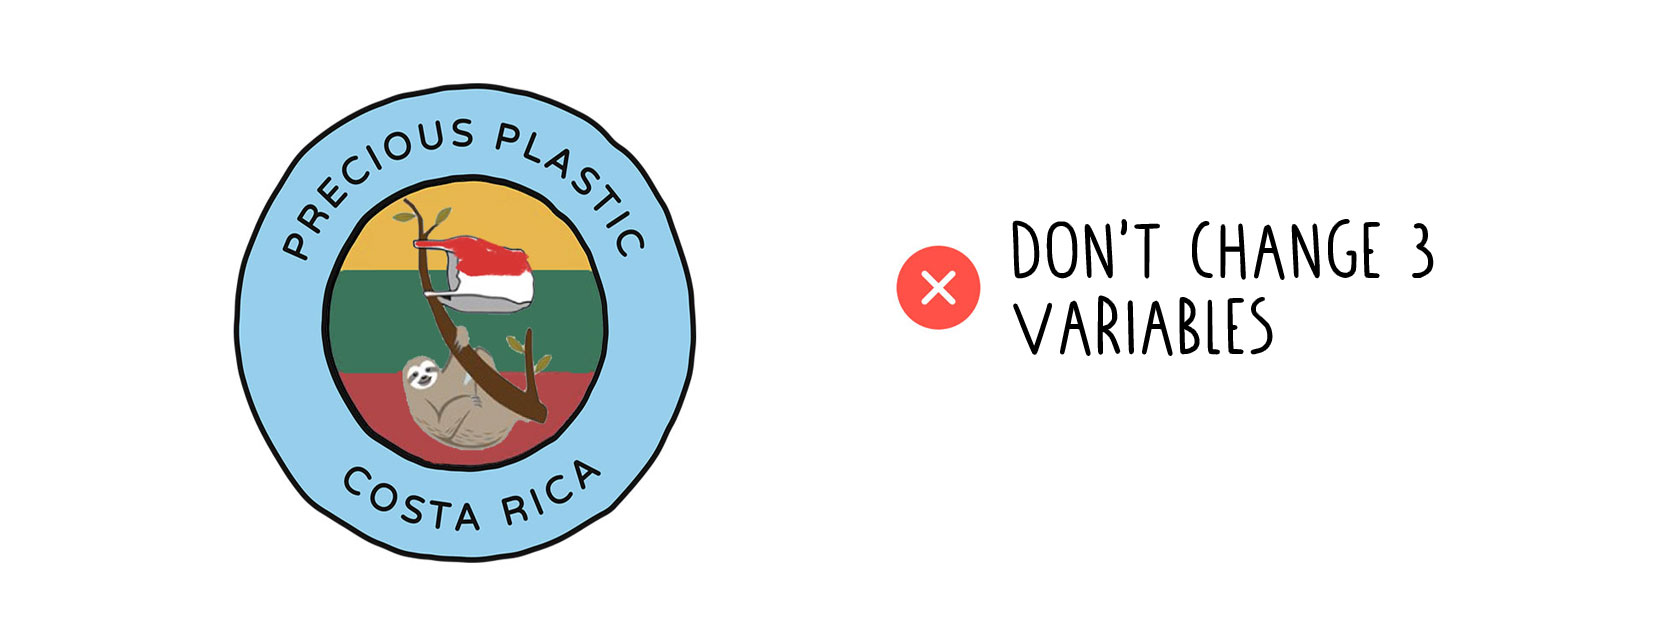
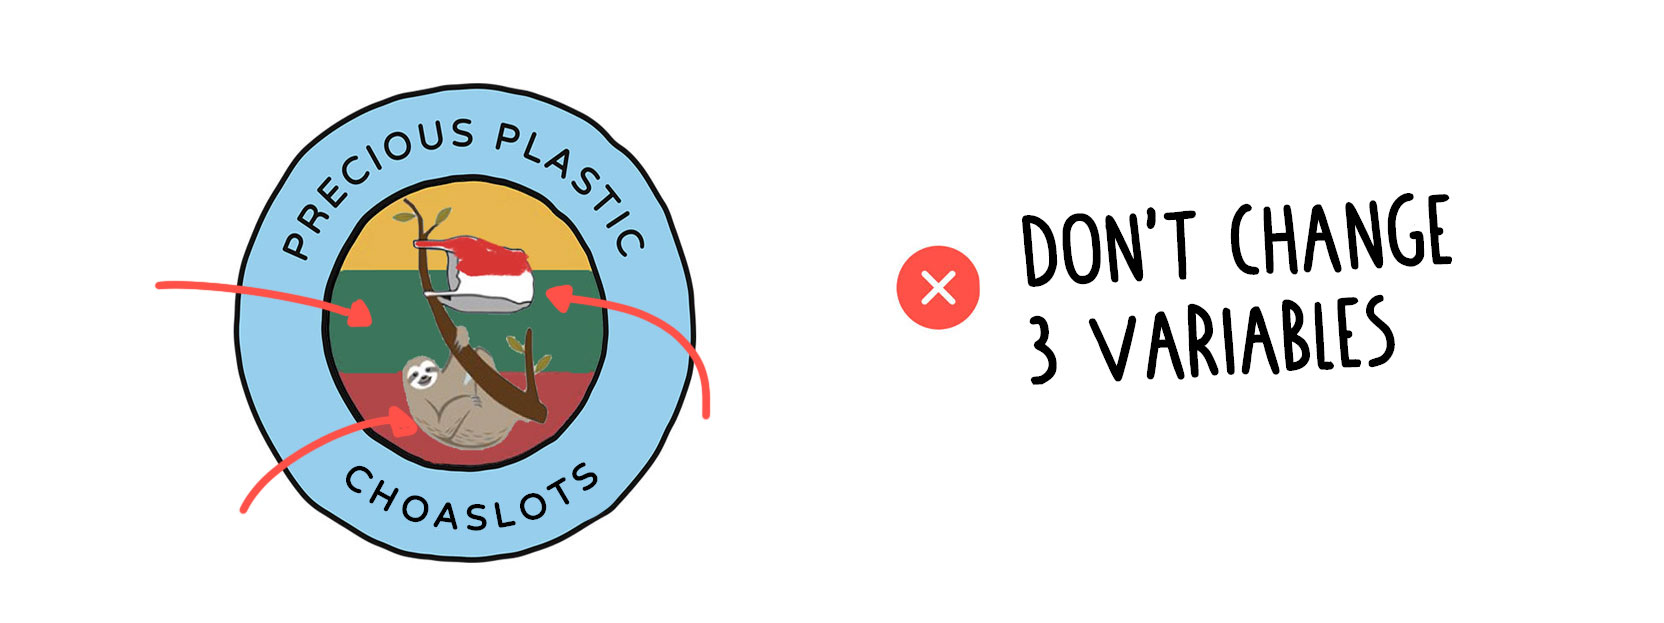
Updated the Universeeeee
+ 3D models of the old machines.

diff --git a/docs/universe/make-your-logo.md b/docs/universe/make-your-logo.md
@@ -1,7 +1,7 @@
 ---
 id: yourlogo
 title: Make your own logo
-sidebar_label: Your own logo
+sidebar_label: Make your logo
 ---
 
 <style>
@@ -13,28 +13,28 @@ sidebar_label: Your own logo
 
 # Make your own logo!
 
-Hi there, good to see you. In this page we will show you how to make your own Precious Plastic logo. We have a few tips and trick that help you make a good logo, and we provide some files in the [download kit](../download). The goal is to help you to have a strong logo to use for your space. One that uses the worldwide brand recognition of Precious Plastic, is customized to your environment and works within the [ universe ](../universe/universe).
+Hi there, good to see you. In this page we will show you how to make your own Precious Plastic logo. We have a few guidelines and tips and trick that help you make a good logo. We provide some files in the [download kit](../download) and have a cool online tools as well But more on that later. Overal the goal is to help you to have a strong logo to use for your Space. One that uses the worldwide brand recognition of Precious Plastic, is customized to your environment and works within the [ Universe ](../universe/universe).
 
 >We are open-source so you can basically do whatever you want, but if we all stick to the guideliness everything will run smooth and we collaborate on a global scale
 
 
-# Step #1 - Pick the right logo color
-The colors in the logo are used to see the fucntion in the Universe. Make sure you pick the right color that fits your space.
+# Guideline #1 - Pick the right logo color
+The colors in the logo are used to see its [function in the Universe ](../universe/universe). This is very helpful for our community see what role you full-fill. Make sure you pick the right color that fits your space.
 <center>
 | Workspace   |   Community point  | Collection Point | Machine Shop |
 |----------|-------------|------------|------------|
 | <img src="../assets/universe/logo-workspace.png" width="150"/> | <img src="../assets/universe/logo-community.png" width="150"/> | <img src="../assets/universe/logo-collection.png" width="150"/>   | <img src="../assets/universe/logo-machineshop.png" width="150"/> |
 </center>
 
-# Step #2 - Select a name
-Change the name of the bottom of the logo to your own. Use the file in the downloadkit to start of with. A few things to keep in mind when picking a name. Don't use your location (country, city neigberhood) unless you are a community point. We need multiple Precious Plastic spaces in easy area, if you claim the location name it prevents others from using it. Location names should be used by community points so they can be the main point of connection for new members. Any other name can be used. In general we recommend to use a short name, fits better and easy to remember.
+# Guideline #2 - Select the right name
+A few things to keep in mind when picking a name. Don't use your location (country, city neigberhood) unless you are a Community Point. We need multiple Precious Plastic Spaces in each local area, if you claim the location name it prevents others from using it. Location names should be used by Community Points only. They are the main point of contact for new members in your area. Any other name can be used though. In general we recommend to use a short name, fits better and easy to remember.
 
-<img src="../assets/universe/logo-name.png"/>
+<img src="../assets/universe/logo-name.jpg"/>
 
 
 
-# Step #3 - Customize the logo
-This is where you can get creative, customize the logo. The flag is powerfull to use as a recognition. More and more people get to know it and it creates a powerful ecosystem. So we reccomend to not change it to much. There are good and not so good ways to customize the logo. Overall the trick is to not change it to much to benifit from the brand awarness of Precious Plastic around the world
+# Guideline #3 - Customize delicate
+This is where you can get creative, customize your logo. The flag is powerful to use as a recognition around the world and only becomes stronger. More and more people get to know it and it creates a powerful ecosystem. So we recommend to not change it to much. There are a few good and not so good ways to customize the logo. Overall the trick is to not change it to much to benifit from the brand awarness of Precious Plastic around the world
 <img src="../assets/universe/logo-good-bad.jpg" />
 
 ## Only change one variable
@@ -46,3 +46,21 @@ We advise to not change the logo to much, but this is still a bit..abstract. So 
 ## Good & Not so good
 Below a few examples that stick to the guideliness and some that are not. Good luck with you own logo. If you need help or feedback join our [Discord](https://discordapp.com/invite/zmf98dw).  
 <img src="../assets/universe/logo-examples.jpg" />
+
+
+
+# Let's make you logo!
+We provide 2 options to make your own logo. For both you need to install the Precious Plastic fonts. Make sure to keep the above guidelines in mind and if if you need help you can ask around in our [#Universe](https://discordapp.com/invite/QUw8A3w) channel in Discord.
+
+1. **The oldschool way:** Download al the files and templates from the [download-kit](../download). You can use your own software to modify. Photoshop, Illustarter, GIMP, Sketch, paint. Whatever gets you going.
+
+2. **The new way:** Use Figma, a free online tool. We like to use it at Precious Plastic to create graphic assets.
+It's free and Multi-platform (Windows, Mac and even Linux) which makes it a great tool to collaborate.<br>
+2.1 - You need to create your on account. Go to www.figma.com and click on Sign up (top-right corner).You can either download the [desktop app](https://www.figma.com/downloads/) or use it directly in your browser. If you choose the second option, then you need to install the [Font Installer](https://www.figma.com/downloads/) to use the custom Precious Plastic font within the software.<br>
+2.2 - If you want to learn more about Figma and how to use the editor you can watch [this video.](https://youtu.be/DSrbwCrEIII)<br>
+2.3 - Once it's done, we're ready to create your logo. Follow this link:<br>
+https://www.figma.com/file/YpkQ9zzWMLS1R47pJcKBxJ/Logo-Generator.<br>
+All the instructions are included in the file.
+Enjoy & be creative!
+
+<img src="../assets/universe/figma-logo.gif" />

diff --git a/docs/universe/branding.md b/docs/universe/branding.md
@@ -12,25 +12,28 @@ sidebar_label: Style guides
 </style>
 
 # The style and graphics behind Precious Plastic
-# Using the logo correctly
+Precious Plastic if a global Open-Source community. This means people can take and make whatever they want. So we have individuals, groups and us in the headquarters making graphic material like posters, website and stickers. But we like to collaborate on a global scale. Instead of making a lot of random things, we like to keep them coherent. So if someone makes something, someone else on the other side of the world can use it as well. And in order to achieve this we have some style- guides.
+<img src="../assets/universe/our-logos.png" />
+# Our different logo's
+There are basically 3 different types of logo's we use. Each of them have their own function.
+1. **Official Logo:** This logo is only used by the headquarters, you can see this on the website and graphic materials we make. We use a different logo because we don't operate as a Precious Plastic Space, we do development and run infrastructure for the community. The logo helps people to see what is official. *Do not use this logo*
+1. **Community Logo:** This is used for things made by the community for the community. For instance posters, stickers, t-shirts a community driven forum. Things that other members around the world as can use as well.
+1. **Custom Logo:** These logo's are used by [Spaces](../spaces) around the world. Community Points, Workspaces, Machine Shops & Collection Points. The logo can be customized to your needs with your own name, more on that in the [next chapter](../universe/yourlogo). These logo's are used to promote your own space, business cards, sign outside your workspace, social media account etc.
 
-# Make posters for Precious Plastic
-- location is for community Points
-- name not to Long
 
+
+<img src="../assets/universe/ourfonts.png" />
 # Using our font
-
-<img style="margin-left:0px;" src="../assets/universe/font-1.jpg" />
-- customize logo based on roles
-- change 1 variable, color background, illustartion
-- save as eps
-
-# Using background background strokes
+We mainly use 3 different fonts. For titles, subtitles and written text. For titles we use our own made Precious Plastic font, can be found in the download-kit. It's nice to use big an bulky. We use Varela Round for subtitles, like there in the academy. We prefer to use it a bit more bold and often in uppercase. It's used in posters and actually also in the logo! And finally we have a text for text, most of our text is digital. For this we use System-Fonts.  These fonts are already on your computer installed. This makes it easier to load and saves bandwith. But it does look a bit different on each device.
 
 
+
+
+<img src="../assets/universe/title-font.png" />
 
 
 # Precious Plastic colors
+Colors are key for us, we love them. They are friendly and represent shredder plastic for us. But we also love them to stay organised and make things clear. We don't use them randomly, they are nested in our DNA and UX Design. We started using them in the Academy a few years ago and kept building upon them. Here are our main colors;
 
 
 ## Academy colors
@@ -42,11 +45,15 @@ sidebar_label: Style guides
 | <img src="../assets/universe/C0ADD4.jpg" width="100%" height="50px" /> | __Collect__ <br> #C0ADD4 |  <img src="../assets/universe/F18DAF.jpg" width="100%" height="50px"/> | __Universe__ <br> #F18DAF |
 | <img src="../assets/universe/FCDE8A.jpg" width="100%" height="50px" /> | __Create__ <br> #FCDE8A |  <img src="../assets/universe/CDCFD5.jpg" width="100%" height="50px"/> | __Support & Download__ <br> #CDCFD5 |
 
-## General colors
+## Spaces colors
 |  color | Location & Hex code           | color | Location & Hex code                   |
 |----------|---------------|--|--------|
-| <img src="../assets/universe/CDCFD5.jpg" width="100%" height="50px" /> | __Primary color__ <br> #B7D6E3    | <img src="../assets/universe/FCDE8A.jpg" width="100%" height="50px"/> | __secondary color__ <br> #FCDE8A	|
-| <img src="../assets/universe/CDCFD5.jpg" width="100%" height="50px" /> | __Workspace__ <br> #B7D6E3    | <img src="../assets/universe/FCDE8A.jpg" width="100%" height="50px"/> | __Machine shop__ <br> #FCDE8A	|
-| <img src="../assets/universe/CDCFD5.jpg" width="100%" height="50px" /> | __Community point__ <br> #B7D6E3    | <img src="../assets/universe/FCDE8A.jpg" width="100%" height="50px"/> | __Collection Point__ <br> #FCDE8A	|
-| <img src="../assets/universe/CDCFD5.jpg" width="100%" height="50px" /> | __Member_ <br> #B7D6E3    | <img src="../assets/universe/FCDE8A.jpg" width="100%" height="50px"/> | __Collection Point__ <br> #FCDE8A	|
-| <img src="../assets/universe/CDCFD5.jpg" width="100%" height="50px" /> | __Logo Ring__ <br> #B7D6E3    | <img src="../assets/universe/FCDE8A.jpg" width="100%" height="50px"/> | __Logo background__ <br> #FCDE8A	|
+| <img src="../assets/universe/8ec685.jpg" width="100%" height="50px" /> | __Community Points__ <br> #B7D6E3    | <img src="../assets/universe/95D2EF.jpg" width="100%" height="50px"/> | __Workspaces__ <br> #95D2EF	|
+| <img src="../assets/universe/C0ADD4.jpg" width="100%" height="50px" /> | __Collection Point__ <br> #C0ADD4    | <img src="../assets/universe/F19093.jpg" width="100%" height="50px"/> | __Machine shop__ <br> #F19093	|
+
+
+
+# Make graphics for Precious Plastic
+Graphics are a powerful tool to communicate a message. We use it to share dry functional information like melting temperatures and different types of plastic. We use it to trigger people and look different at plastic, for instance with our campaign posters from the Collection Points. And we use it digitally, on social media and our website. And there are probably many different purposes and things to make, we don't have an example for everything nor have all the guidelines in depth. The best thing to do is have a look at the graphic material we already provide, take them as an example or template an build upon that. And if you are unsure wheter it looks good, just share it in the Discord, many people love to share their opinion on it :)
+
+<img src="../assets/universe/posters.png" />

diff --git a/docs/universe/universe.md b/docs/universe/universe.md
@@ -50,5 +50,5 @@ There are a few things to take in account when setting up a Space.
 
 - **What is your budget** We like it if people can sustain themselves in the long run, setting your Space up as a business helps a lot to achieve this. But each Space does this a bit different, some require high investments, some not. Take this in account before you want to start
 
-# Become Part of the Ecosystem
-It's fun to be part of a global community of like minded people, you can always find a place to sleep around the world :). But it's also just really really useful. On the one hand you can use our Discord to share ideas, suggestion or find answers to your questions. And we have our online community-platform where you can find much more information, hacks, and improvements generated by members around the world. This information you can just take, but its also good to give back towards and share the things we learn. So we all work locally, but share knowledge globally.
+# Become part of a global ecosystem
+It's fun to be part of a global community of like minded people, you can always find a place to sleep around the world :). But it's also just really really useful. On the one hand you can use our [Discord](https://discordapp.com/invite/rnx7m4t) to share ideas, suggestion or find answers to your questions. And we have our online [community-platform](https://community.preciousplastic.com) where you can find much more information, hacks, and improvements generated by members around the world. This information you can just take, but its also good to give back towards and share the things we learn. So we all work locally, but share knowledge globally.

diff --git a/docs/build/shredder.md b/docs/build/shredder.md
@@ -60,7 +60,7 @@ The shredder is the backbone of Precious Plastic, it allows you to shred plastic
 > Pro Tip: Clean the shredder blades and mesh every time you change plastic to avoid contamination of different plastic types.
 
 # 🌐 3D Model
-<iframe width="500" height="600" src="https://b2b.partcommunity.com/community/partcloud/embedded.html?route=embedded-viewer&name=Shredder+Basic+V2.0&model_id=96649&portal=b2b&noAutoload=true&autoRotate=false&hideMenu=true&topColor=%23FFFFFF&bottomColor=%23ffffff&cameraParams=false&varsettransfer=" frameborder="0" id="EmbeddedView-Iframe-96649" allowfullscreen></iframe>
+<iframe width="500" height="500" src="https://b2b.partcommunity.com/community/partcloud/embedded.html?route=embedded-viewer&name=Shredder+Basic+V2.0&model_id=96649&portal=b2b&noAutoload=true&autoRotate=false&hideMenu=true&topColor=%23FFFFFF&bottomColor=%23ffffff&cameraParams=false&varsettransfer=" frameborder="0" id="EmbeddedView-Iframe-96649" allowfullscreen></iframe>
 
 
 # 🛠 Required machinery & skills

diff --git a/docs/build/injection.md b/docs/build/injection.md
@@ -60,7 +60,7 @@ The injection machine has a quick production output with high precision, while i
 | ♻ Input Flake Size                   | Medium, Small  |
 
 # 🌐 3D Model
-<iframe width="500" height="600" src="https://b2b.partcommunity.com/community/partcloud/embedded.html?route=embedded-viewer&name=Injection+Basic+V2.0&model_id=96645&portal=b2b&noAutoload=true&autoRotate=false&hideMenu=true&topColor=%23dde7ed&bottomColor=%23ffffff&cameraParams=false&varsettransfer=" frameborder="0" id="EmbeddedView-Iframe-96645" allowfullscreen></iframe>
+<iframe width="500" height="500" src="https://b2b.partcommunity.com/community/partcloud/embedded.html?route=embedded-viewer&name=Injection+Basic+V2.0&model_id=96645&portal=b2b&noAutoload=true&autoRotate=false&hideMenu=true&topColor=%23dde7ed&bottomColor=%23ffffff&cameraParams=false&varsettransfer=" frameborder="0" id="EmbeddedView-Iframe-96645" allowfullscreen></iframe>
 
 
 # 🛠 Required machinery & skills

diff --git a/docs/build/extrusion.md b/docs/build/extrusion.md
@@ -71,7 +71,7 @@ With this machine you can create filament (challenging but doable), granulate or
 
 
 # 🌐 3D Model
-<iframe width="500" height="600" src="https://b2b.partcommunity.com/community/partcloud/embedded.html?route=embedded-viewer&name=Extrusion+Basic+V2.0&model_id=96651&portal=b2b&noAutoload=true&autoRotate=false&hideMenu=true&topColor=%23FFFFFF&bottomColor=%23ffffff&cameraParams=false&varsettransfer=" frameborder="0" id="EmbeddedView-Iframe-96651" allowfullscreen></iframe>
+<iframe width="500" height="500" src="https://b2b.partcommunity.com/community/partcloud/embedded.html?route=embedded-viewer&name=Extrusion+Basic+V2.0&model_id=96651&portal=b2b&noAutoload=true&autoRotate=false&hideMenu=true&topColor=%23FFFFFF&bottomColor=%23ffffff&cameraParams=false&varsettransfer=" frameborder="0" id="EmbeddedView-Iframe-96651" allowfullscreen></iframe>
 
 
 # 🛠 Required machinery & skills

diff --git a/docs/build/compression.md b/docs/build/compression.md
@@ -56,7 +56,7 @@ The compression machine is basically an electric kitchen oven to heat the plasti
 
 
 # 🌐 3D Model
-<iframe width="500" height="600" src="https://b2b.partcommunity.com/community/partcloud/embedded.html?route=embedded-viewer&name=Compression+Basic+V2.0&model_id=96647&portal=b2b&noAutoload=false&autoRotate=false&hideMenu=true&topColor=%23dde7ed&bottomColor=%23ffffff&cameraParams=false&varsettransfer=" frameborder="0" id="EmbeddedView-Iframe-96647" allowfullscreen></iframe>
+<iframe width="500" height="500" src="https://b2b.partcommunity.com/community/partcloud/embedded.html?route=embedded-viewer&name=Compression+Basic+V2.0&model_id=96647&portal=b2b&noAutoload=false&autoRotate=false&hideMenu=true&topColor=%23dde7ed&bottomColor=%23ffffff&cameraParams=false&varsettransfer=" frameborder="0" id="EmbeddedView-Iframe-96647" allowfullscreen></iframe>
 
 
 
